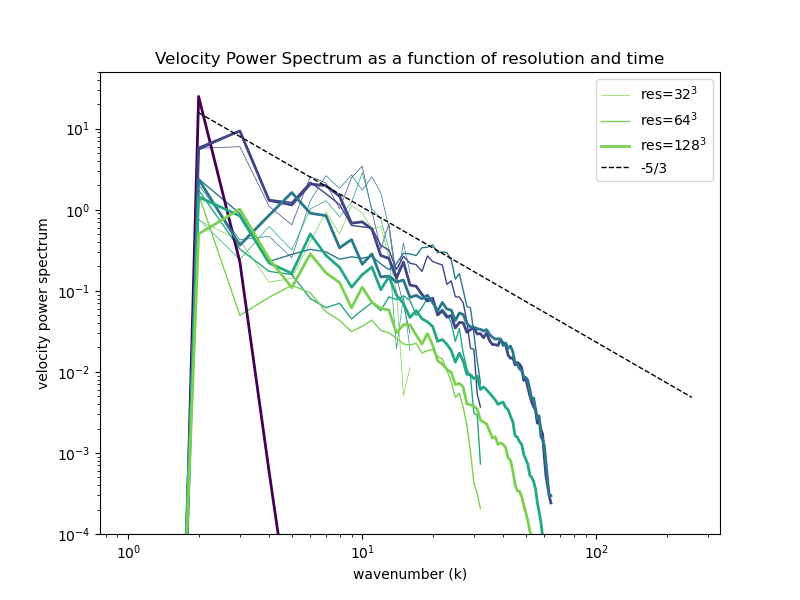
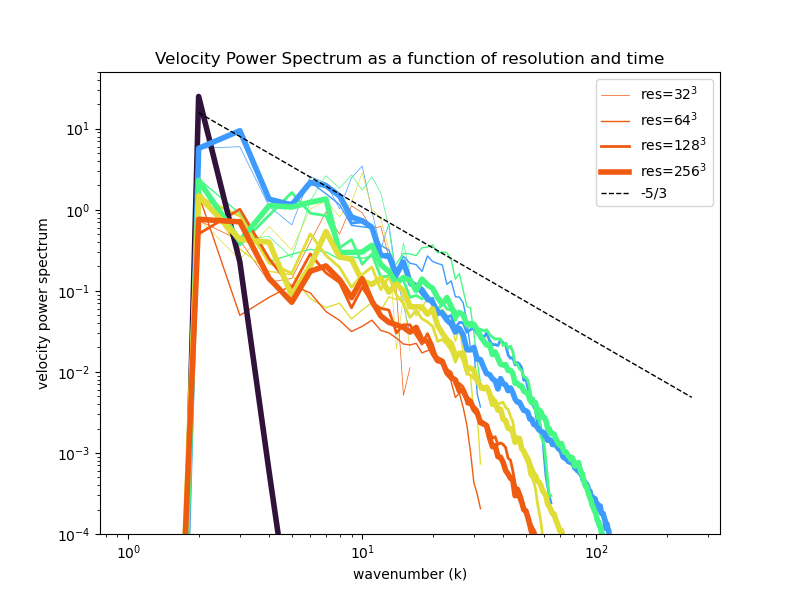
update plot colors

Changed region(s): [[0.2188, 0.15, 0.7812, 0.9], [0.75, 0.24, 0.875, 0.33]]

diff --git a/navier-stokes-turbulence.py b/navier-stokes-turbulence.py
@@ -185,9 +185,7 @@ def main():
 
     print(f"Running 3D Navier-Stokes simulation with N={N}, Nt={Nt}, dt={dt}, nu={nu}")
 
-    assert Nt * dt > 10.0, (
-        "Simulation should be run long enough for turbulence to develop"
-    )
+    assert Nt * dt > 10.0, "Run simulation long enough for turbulence to develop!"
 
     # Domain [0,1]^3
     L = 2.0 * jnp.pi

diff --git a/summarize.py b/summarize.py
@@ -45,7 +45,7 @@ def summarize_results(resolutions):
         Nsnap = Pf_all.shape[0]
         for i in range(Nsnap):
             Pf = Pf_all[i]
-            color = plt.cm.viridis(i / Nsnap)
+            color = plt.cm.turbo(i / Nsnap)
             label = f"res={res}$^3$" if i == Nsnap - 1 else None
             plt.plot(
                 k,
